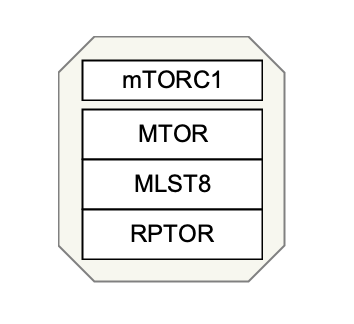
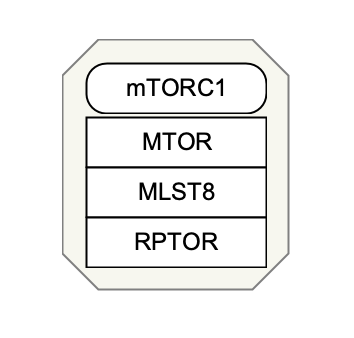
change node shape

Changed region(s): [[0.1554, 0.0926, 0.839, 0.8951]]

diff --git a/stages/draw-complex/index.html b/stages/draw-complex/index.html
@@ -51,12 +51,12 @@
           
           <ul>
         <!--<li>Download the starter pathway here: <a href="https://academy.wikipathways.org/data/draw-complex-start.gpml">draw-complex-start.gpml</a>.</li>-->
-        <li>Launch PathVisio and start a new blank pathway, select <b>Homo sapiens</b> as the organism.</li>		  
-        <li>Add three data nodes of type <b>Protein</b>, and annotate them with Uniprot-TrEMBL identifiers for MTOR, MLST8 and RPTOR, respecitvely. You can use the built-in identifier search tool for this.</li>
+        <li>Launch PathVisio and start a new pathway, select <b>Homo sapiens</b> as the organism.</li>		  
+        <li>Add three data nodes of type <b>Protein</b>, and annotate them with Uniprot-TrEMBL identifiers for MTOR, MLST8 and RPTOR, respectively. You can use the built-in identifier search tool for this.</li>
         <li>Add a 4th node, and with the node selected, switch the node type to <b>Complex</b> in the <b>Properties</b> panel on the right.</li>
         <li>Next we will need to identify the correct identifier for the mTORC1 complex by searching the <a href="https://www.ebi.ac.uk/complexportal/home" target="_blank">Complex Portal website</a>. On this website, perform a simple search for "mTORC1", and select the entry for Homo sapiens. Find the <b>ComplexAc</b> identifier; it should be CPX-4473.</li>
-        <li>In PathVisio, double-click on the new complex node. For <b>Text label</b>, enter <b>mTORC1</b>. In the <b>Identifier</b> field, enter the ComplexAc identifier (CPX-4473). Finally, select <b>Complex Portal</b> from the drop-down under <b>Database</b>.</li>
-        <li>To visually distinguish the complex node from the three protein nodes, change the height of the complex node to 20. This is done by selecting the node and updating the height in the <b>Properties</b> panel on the right.</li>
+        <li>In PathVisio, double-click on the new complex node. For <b>Text label</b>, enter mTORC1. In the <b>Identifier</b> field, enter the ComplexAc identifier (CPX-4473). Finally, select <b>Complex Portal</b> from the drop-down under <b>Database</b>.</li>
+        <li>To visually distinguish the complex node from the three protein nodes, change the <b>Shape Type</b> to <b>ROundedRectangle</b> in the <b>Properties</b> panel on the right.</li>
         <li>Select all 4 nodes and click the <b>Stack vertical centers</b> button <img src="../../images/stack-vertical.png"> from the toolbar.</li>
 		<li>With the two data nodes selected, right-click and select <b>Create complex</b>. Alternatively, you can use the keyboard shortcut <b>Ctrl+P</b> (<b>Command+P</b> on Mac) to create the complex.</li>
         <li>Done!</li>
